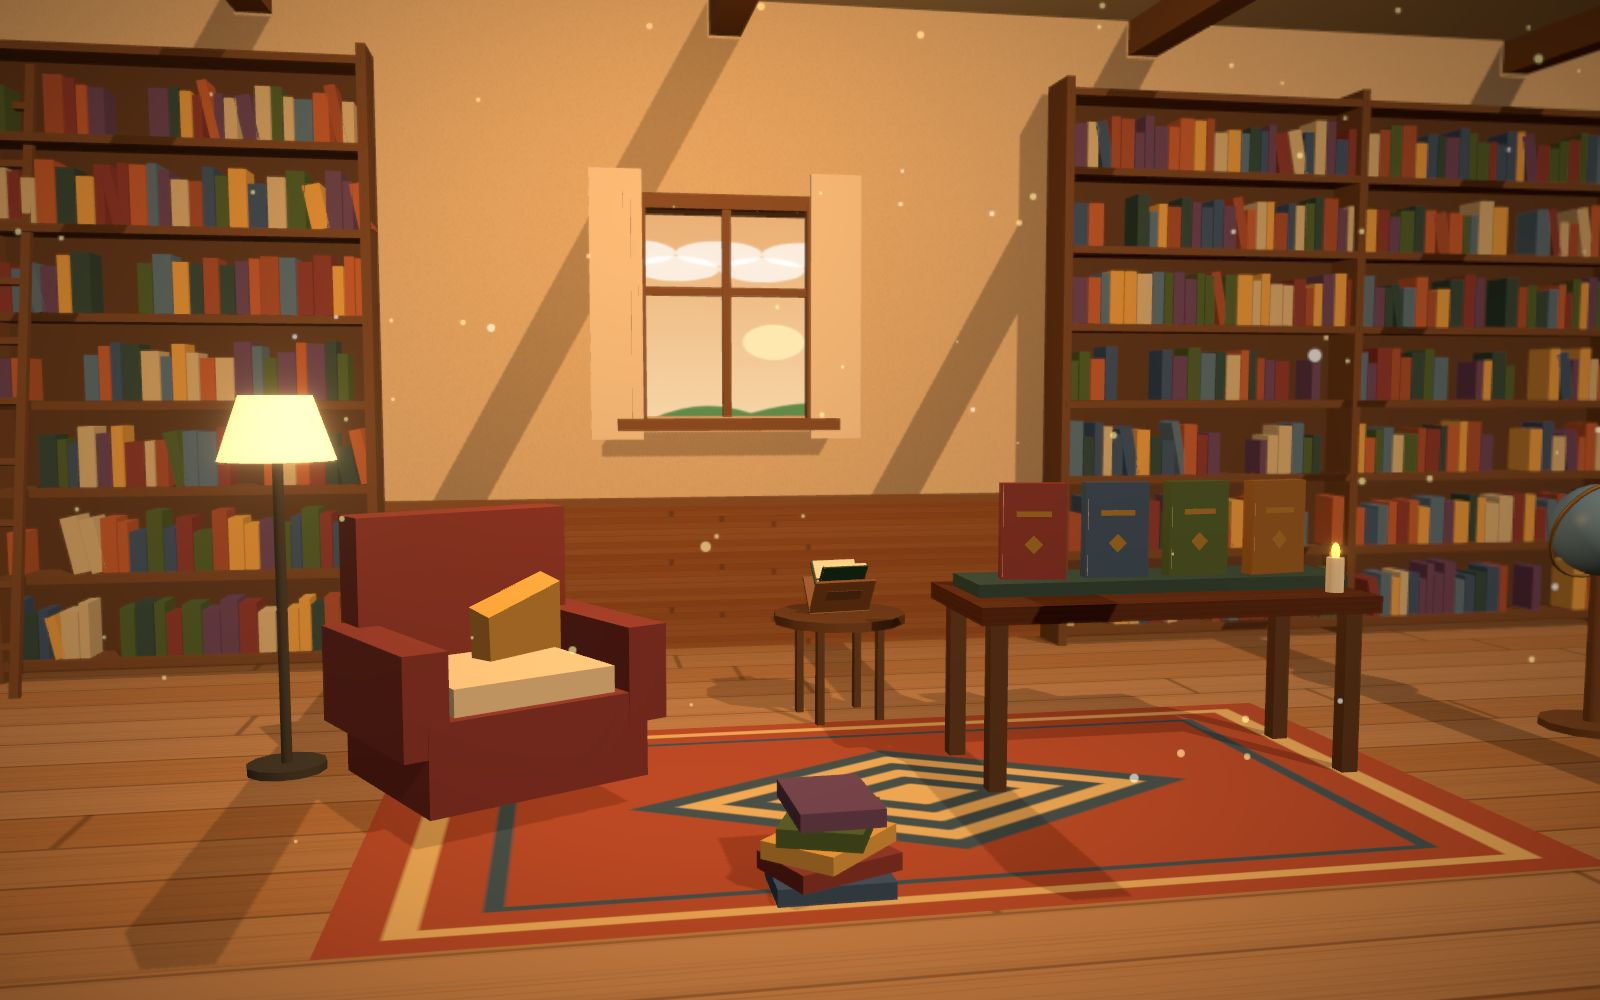
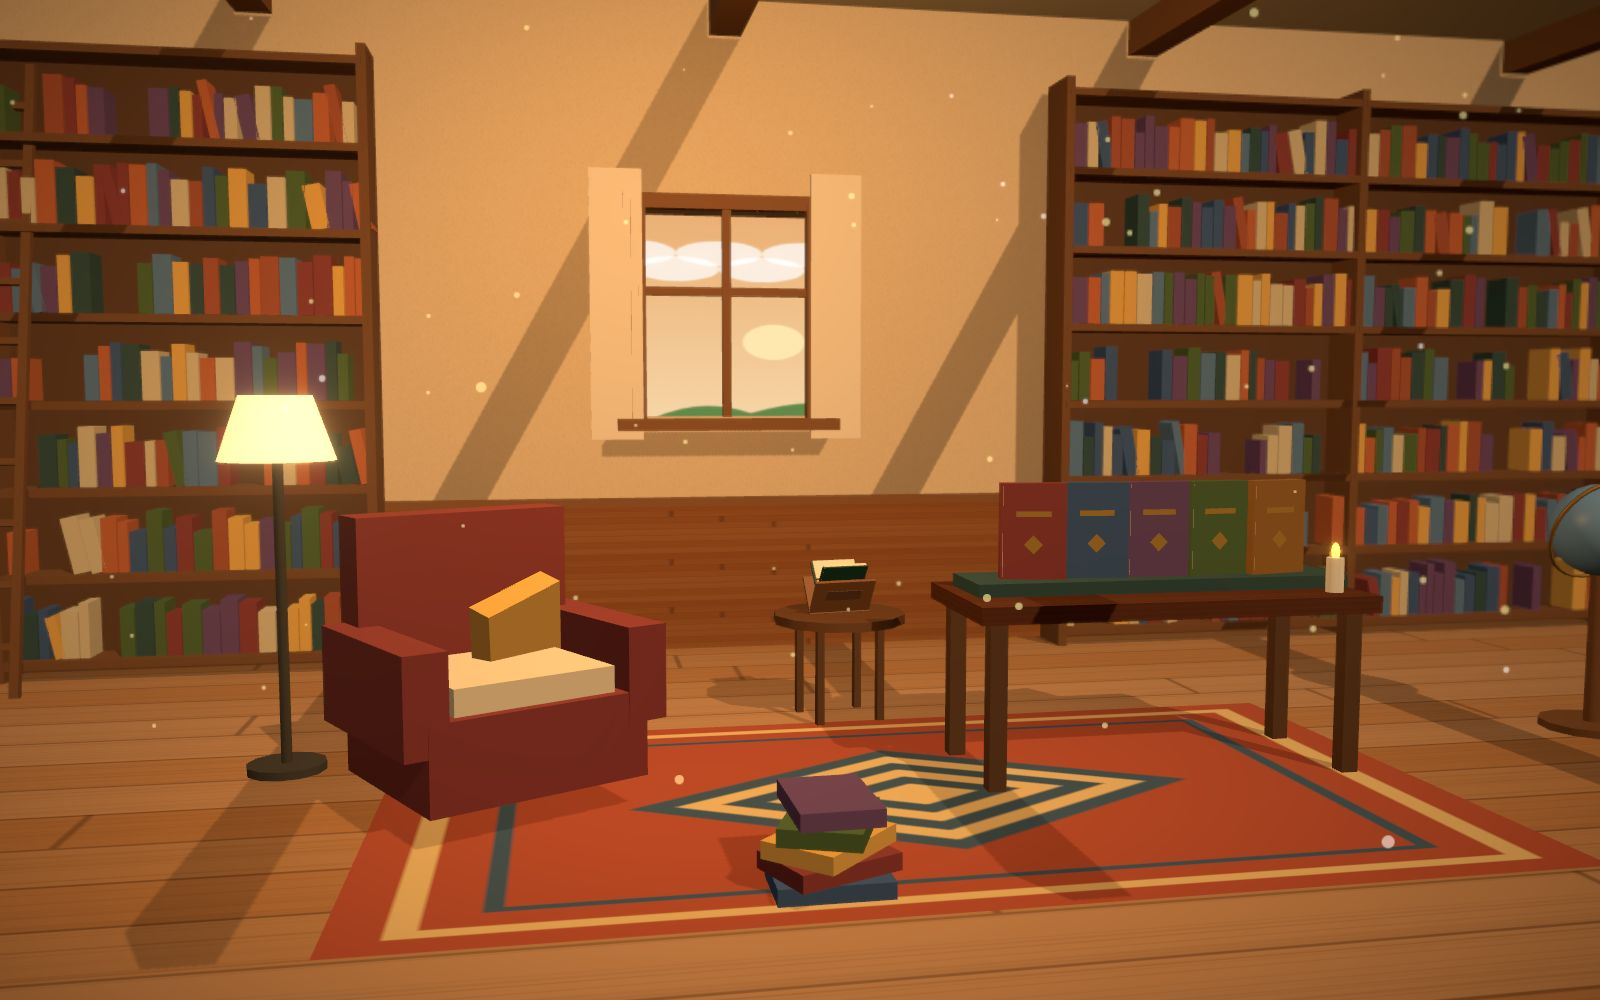
Add publications and contact links

Changed region(s): [[0.6562, 0.465, 0.7812, 0.589], [0.8125, 0.341, 0.8438, 0.372]]

diff --git a/content/site.ts b/content/site.ts
@@ -10,12 +10,12 @@ export const site = {
   role: 'Creative software developer & home cook',
   tagline: 'Curious what’s inside? Ring the bell and come on in!',
   resumeUrl: '/resume.pdf',
-  email: 'hello@yourname.dev',
+  email: 'nushrakhan312@gmail.com',
   location: 'India · open to remote',
   socials: [
-    { label: 'GitHub', href: 'https://github.com/your-handle' },
-    { label: 'LinkedIn', href: 'https://www.linkedin.com/in/your-handle' },
-    { label: 'Email', href: 'mailto:hello@yourname.dev' },
+    { label: 'GitHub', href: 'https://github.com/Nushra-khan' },
+    { label: 'LinkedIn', href: 'https://www.linkedin.com/in/nushra-khan' },
+    { label: 'Email', href: 'mailto:nushrakhan312@gmail.com' },
   ],
 };
 
@@ -93,47 +93,67 @@ export const projects: Project[] = [
 
 export type Research = {
   id: string;
-  kind: 'Paper' | 'Award' | 'Interest' | 'Talk';
+  kind: 'Conference paper' | 'Book chapter';
+  status?: 'Accepted' | 'Under review' | 'Published';
+  date: string;
   title: string;
   venue: string;
-  blurb: string;
+  publisher: string;
+  /** Optional link (DOI, publisher page, arXiv…) — add one when it's available. */
   href?: string;
+  /** Cover colour of this paper's book on the library table. */
   color: string;
 };
 
+/** Each entry becomes a book on the library's display table. */
 export const research: Research[] = [
   {
-    id: 'r1',
-    kind: 'Paper',
-    title: 'Efficient Retrieval for On-Device Assistants',
-    venue: 'Workshop paper · 2026',
-    blurb: 'Compressing embedding indexes so search runs comfortably on a phone.',
-    href: 'https://arxiv.org/',
+    id: 'mental-health-stacking',
+    kind: 'Conference paper',
+    status: 'Accepted',
+    date: 'Oct 2026',
+    title: 'Multiclass Mental Health Classification Using Nested Validation and Stacking Ensemble',
+    venue: 'IEEE International Conference on Secure and Intelligent Digital Ecosystems (SIDE’26)',
+    publisher: 'Springer Nature · STEAM-H',
     color: '#8C3B3B',
   },
   {
-    id: 'r2',
-    kind: 'Award',
-    title: 'Best Student Project',
-    venue: 'University tech fest · 2025',
-    blurb: 'For an accessible campus navigation app used by 3,000+ students.',
+    id: 'diabetic-retinopathy',
+    kind: 'Conference paper',
+    status: 'Accepted',
+    date: 'Oct 2026',
+    title: 'Automated Binary Screening of Diabetic Retinopathy Using EfficientNet-B3 with CLAHE and Grad-CAM-Based Explainability',
+    venue: '3rd International Conference on Next Generation Communication and Computing',
+    publisher: 'Springer',
     color: '#3B5B8C',
   },
   {
-    id: 'r3',
-    kind: 'Talk',
-    title: 'Making the Web Feel Handmade',
-    venue: 'Local JS meetup · 2025',
-    blurb: 'On motion, restraint and why small details make software feel warm.',
-    href: 'https://youtube.com/',
+    id: 'mental-health-hybrid',
+    kind: 'Conference paper',
+    status: 'Under review',
+    date: 'Nov 2026',
+    title: 'Hybrid Ensemble Learning for Binary and Multiclass Classification of Mental Health',
+    venue: '8th International Conference on Artificial Intelligence and Speech Technology',
+    publisher: 'Springer',
+    color: '#6B4A7A',
+  },
+  {
+    id: 'biodiversity-review',
+    kind: 'Conference paper',
+    status: 'Under review',
+    date: '2027',
+    title: 'Learning with Limited Data under Privacy Constraints: A Review of Machine Learning for Biodiversity Monitoring',
+    venue: 'International Conference on Emerging Smart Technology for Sustainable Development (ESTSD-2027)',
+    publisher: '',
     color: '#4F6B3A',
   },
   {
-    id: 'r4',
-    kind: 'Interest',
-    title: 'Human-centred ML & Graphics',
-    venue: 'Ongoing reading',
-    blurb: 'Interpretability, procedural generation and tools for creative people.',
+    id: 'hvac-air-purification',
+    kind: 'Book chapter',
+    date: 'Jul 2026',
+    title: 'AI Applications in HVAC Systems for Indoor Air Purification',
+    venue: 'Smart Approaches to Air Remediation: AI Applications in Air Pollution Control and Monitoring',
+    publisher: 'Bentham Science',
     color: '#9C6B2E',
   },
 ];

diff --git a/components/ui/Sections.tsx b/components/ui/Sections.tsx
@@ -292,23 +292,40 @@ function Research() {
               <Eyebrow>The library</Eyebrow>
             </div>
             <h2 id="research-h" data-reveal className="font-serif text-[clamp(1.6rem,3vw,2.3rem)] font-[450] leading-tight text-ink">
-              Research, recognition &amp; rabbit holes
+              Publications &amp; research
             </h2>
-            <ul className="mt-5 space-y-2">
+            <p data-reveal className="mt-1 text-[13.5px] text-ink/60">
+              Machine learning for health, vision and the planet.
+            </p>
+            <ul className="mt-4 space-y-1.5">
               {research.map((r) => {
                 const on = hovered === `research:${r.id}`;
                 const Inner = (
                   <>
-                    <span className="mt-1 h-10 w-1.5 shrink-0 rounded-full" style={{ background: r.color }} />
+                    <span className="mt-1 w-1.5 shrink-0 self-stretch rounded-full" style={{ background: r.color }} />
                     <span className="min-w-0">
-                      <span className="flex items-center gap-2 text-[11px] font-semibold uppercase tracking-[0.16em] text-ink/50">
-                        {r.kind} · {r.venue}
+                      <span className="flex flex-wrap items-center gap-x-2 gap-y-1 text-[10.5px] font-semibold uppercase tracking-[0.14em] text-ink/50">
+                        <span>{r.kind}</span>
+                        <span aria-hidden>·</span>
+                        <span>{r.date}</span>
+                        {r.status && (
+                          <span
+                            className={`rounded-full px-2 py-0.5 text-[10px] tracking-[0.08em] ${
+                              r.status === 'Under review' ? 'bg-honey/25 text-[#8a5a12]' : 'bg-moss/15 text-moss'
+                            }`}
+                          >
+                            {r.status}
+                          </span>
+                        )}
                       </span>
-                      <span className="mt-0.5 block font-serif text-[17px] leading-snug text-ink">{r.title}</span>
-                      <span className="mt-1 block text-[13.5px] leading-relaxed text-ink/70">{r.blurb}</span>
+                      <span className="mt-1 block font-serif text-[16px] leading-snug text-ink">{r.title}</span>
+                      <span className="mt-1 block text-[12.5px] leading-relaxed text-ink/65">
+                        {r.venue}
+                        {r.publisher ? <span className="text-ink/45"> — {r.publisher}</span> : null}
+                      </span>
                     </span>
                     {r.href && (
-                      <span className="ml-auto mt-1 text-ink/40">
+                      <span className="ml-auto mt-1 shrink-0 text-ink/40">
                         <ArrowIcon />
                       </span>
                     )}
@@ -334,7 +351,7 @@ function Research() {
               })}
             </ul>
             <p data-reveal className="mt-4 hidden text-xs italic text-ink/50 [@media(hover:hover)]:block">
-              Each book on the table is one of these — hover to pull it off the shelf.
+              Each book on the table is one of these — hover a title to lift it.
             </p>
           </div>
         </div>

diff --git a/components/three/Interior.tsx b/components/three/Interior.tsx
@@ -739,7 +739,7 @@ function Library() {
         ))}
         <mesh position={[0, 0.88, 0]} geometry={geo.box} scale={[1.8, 0.06, 0.4]} material={paint('#2f4f4f')} />
         {research.map((item, i) => (
-          <FeatureBook key={item.id} item={item} position={[-0.6 + i * 0.4, 0.91, 0.05]} rot={(i - 1.5) * 0.12} />
+          <FeatureBook key={item.id} item={item} position={[(i - (research.length - 1) / 2) * Math.min(0.4, 1.5 / research.length), 0.91, 0.05]} rot={(i - (research.length - 1) / 2) * 0.1} />
         ))}
         {/* candle */}
         <group position={[0.8, 0.84, 0.25]}>

diff --git a/components/ui/Tooltip.tsx b/components/ui/Tooltip.tsx
@@ -14,7 +14,7 @@ function labelFor(id: string | null): string | null {
   if (id === 'medals') return 'Two gold medals 🏅🏅';
   if (id.startsWith('research:')) {
     const r = research.find((x) => `research:${x.id}` === id);
-    return r ? `${r.kind}: ${r.title}` : null;
+    return r ? `${r.kind}${r.status ? ` · ${r.status}` : ''}: ${r.title.length > 70 ? r.title.slice(0, 68) + '…' : r.title}` : null;
   }
   if (id.startsWith('recipe:')) {
     const r = recipes.find((x) => `recipe:${x.id}` === id);

diff --git a/app/layout.tsx b/app/layout.tsx
@@ -3,6 +3,7 @@ import './globals.css';
 import { site } from '@/content/site';
 
 export const metadata: Metadata = {
+  metadataBase: new URL('https://portfolio-jet-kappa-72.vercel.app'),
   title: `${site.title} — ${site.name}`,
   description: `${site.name}: ${site.role}. ${site.tagline}`,
   openGraph: {
